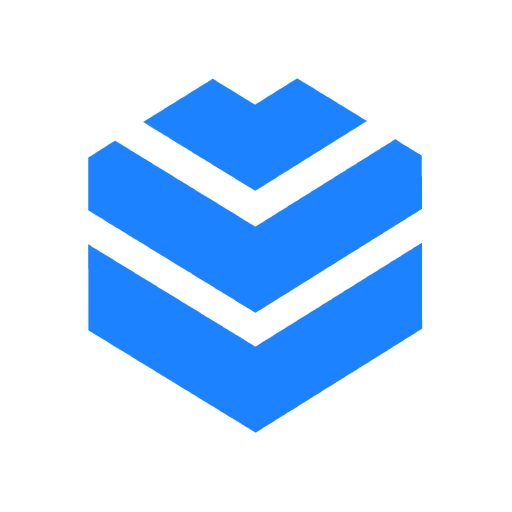
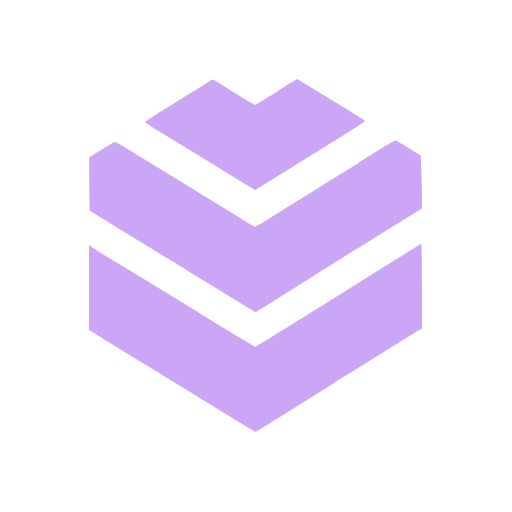
update colors

Changed region(s): [[0.1562, 0.4688, 0.8438, 0.8438], [0.1562, 0.25, 0.8438, 0.625], [0.2812, 0.1562, 0.7188, 0.375]]

diff --git a/src/app/globals.css b/src/app/globals.css
@@ -2,61 +2,108 @@
 @tailwind components;
 @tailwind utilities;
 
-@layer base {
-  :root {
-    --background: 0 0% 100%;
-    --foreground: 222.2 84% 4.9%;
-    --card: 0 0% 100%;
-    --card-foreground: 222.2 84% 4.9%;
-    --popover: 0 0% 100%;
-    --popover-foreground: 222.2 84% 4.9%;
-    --primary: 221.2 83.2% 53.3%;
-    --primary-foreground: 210 40% 98%;
-    --secondary: 210 40% 96.1%;
-    --secondary-foreground: 222.2 47.4% 11.2%;
-    --muted: 210 40% 96.1%;
-    --muted-foreground: 215.4 16.3% 46.9%;
-    --accent: 210 40% 96.1%;
-    --accent-foreground: 222.2 47.4% 11.2%;
-    --destructive: 0 84.2% 60.2%;
-    --destructive-foreground: 210 40% 98%;
-    --border: 214.3 31.8% 91.4%;
-    --input: 214.3 31.8% 91.4%;
-    --ring: 221.2 83.2% 53.3%;
-    --radius: 0.5rem;
-    --chart-1: 12 76% 61%;
-    --chart-2: 173 58% 39%;
-    --chart-3: 197 37% 24%;
-    --chart-4: 43 74% 66%;
-    --chart-5: 27 87% 67%;
-  }
+:root {
+  --background: 220 23.08% 94.9%;
+  --foreground: 233.79 16.02% 35.49%;
+  --card: 0 0% 100%;
+  --card-foreground: 233.79 16.02% 35.49%;
+  --popover: 222.86 15.91% 82.75%;
+  --popover-foreground: 233.79 16.02% 35.49%;
+  --primary: 266.04 85.05% 58.04%;
+  --primary-foreground: 0 0% 100%;
+  --secondary: 222.86 15.91% 82.75%;
+  --secondary-foreground: 233.79 16.02% 35.49%;
+  --muted: 220 20.69% 88.63%;
+  --muted-foreground: 232.8 10.37% 47.25%;
+  --accent: 197.07 96.57% 45.69%;
+  --accent-foreground: 0 0% 100%;
+  --destructive: 347.08 86.67% 44.12%;
+  --destructive-foreground: 0 0% 100%;
+  --border: 225 13.56% 76.86%;
+  --input: 222.86 15.91% 82.75%;
+  --ring: 266.04 85.05% 58.04%;
+  --chart-1: 266.04 85.05% 58.04%;
+  --chart-2: 197.07 96.57% 45.69%;
+  --chart-3: 109.23 57.64% 39.8%;
+  --chart-4: 21.98 99.18% 51.96%;
+  --chart-5: 10.8 58.82% 66.67%;
+  --sidebar: 220 21.95% 91.96%;
+  --sidebar-foreground: 233.79 16.02% 35.49%;
+  --sidebar-primary: 266.04 85.05% 58.04%;
+  --sidebar-primary-foreground: 0 0% 100%;
+  --sidebar-accent: 197.07 96.57% 45.69%;
+  --sidebar-accent-foreground: 0 0% 100%;
+  --sidebar-border: 225 13.56% 76.86%;
+  --sidebar-ring: 266.04 85.05% 58.04%;
+  --font-sans: Montserrat, sans-serif;
+  --font-serif: Georgia, serif;
+  --font-mono: Fira Code, monospace;
+  --radius: 0.35rem;
+  --shadow-2xs: 0px 4px 6px 0px hsl(240 30% 25% / 0.06);
+  --shadow-xs: 0px 4px 6px 0px hsl(240 30% 25% / 0.06);
+  --shadow-sm: 0px 4px 6px 0px hsl(240 30% 25% / 0.12),
+    0px 1px 2px -1px hsl(240 30% 25% / 0.12);
+  --shadow: 0px 4px 6px 0px hsl(240 30% 25% / 0.12),
+    0px 1px 2px -1px hsl(240 30% 25% / 0.12);
+  --shadow-md: 0px 4px 6px 0px hsl(240 30% 25% / 0.12),
+    0px 2px 4px -1px hsl(240 30% 25% / 0.12);
+  --shadow-lg: 0px 4px 6px 0px hsl(240 30% 25% / 0.12),
+    0px 4px 6px -1px hsl(240 30% 25% / 0.12);
+  --shadow-xl: 0px 4px 6px 0px hsl(240 30% 25% / 0.12),
+    0px 8px 10px -1px hsl(240 30% 25% / 0.12);
+  --shadow-2xl: 0px 4px 6px 0px hsl(240 30% 25% / 0.3);
+}
 
-  .dark {
-    --background: 222.2 84% 4.9%;
-    --foreground: 210 40% 98%;
-    --card: 222.2 84% 4.9%;
-    --card-foreground: 210 40% 98%;
-    --popover: 222.2 84% 4.9%;
-    --popover-foreground: 210 40% 98%;
-    --primary: 217.2 91.2% 59.8%;
-    --primary-foreground: 222.2 47.4% 11.2%;
-    --secondary: 217.2 32.6% 17.5%;
-    --secondary-foreground: 210 40% 98%;
-    --muted: 217.2 32.6% 17.5%;
-    --muted-foreground: 215 20.2% 65.1%;
-    --accent: 217.2 32.6% 17.5%;
-    --accent-foreground: 210 40% 98%;
-    --destructive: 0 62.8% 30.6%;
-    --destructive-foreground: 210 40% 98%;
-    --border: 217.2 32.6% 17.5%;
-    --input: 217.2 32.6% 17.5%;
-    --ring: 224.3 76.3% 48%;
-    --chart-1: 220 70% 50%;
-    --chart-2: 160 60% 45%;
-    --chart-3: 30 80% 55%;
-    --chart-4: 280 65% 60%;
-    --chart-5: 340 75% 55%;
-  }
+.dark {
+  --background: 240 21.31% 11.96%;
+  --foreground: 226.15 63.93% 88.04%;
+  --card: 240 21.05% 14.9%;
+  --card-foreground: 226.15 63.93% 88.04%;
+  --popover: 234.29 13.21% 31.18%;
+  --popover-foreground: 226.15 63.93% 88.04%;
+  --primary: 267.41 83.51% 80.98%;
+  --primary-foreground: 240 21.05% 14.9%;
+  --secondary: 232.5 12% 39.22%;
+  --secondary-foreground: 226.15 63.93% 88.04%;
+  --muted: 230.53 18.81% 19.8%;
+  --muted-foreground: 227.65 23.61% 71.76%;
+  --accent: 189.18 71.01% 72.94%;
+  --accent-foreground: 240 21.05% 14.9%;
+  --destructive: 343.27 81.25% 74.9%;
+  --destructive-foreground: 240 21.05% 14.9%;
+  --border: 236.84 16.24% 22.94%;
+  --input: 236.84 16.24% 22.94%;
+  --ring: 267.41 83.51% 80.98%;
+  --chart-1: 267.41 83.51% 80.98%;
+  --chart-2: 189.18 71.01% 72.94%;
+  --chart-3: 115.45 54.1% 76.08%;
+  --chart-4: 22.96 92% 75.49%;
+  --chart-5: 9.6 55.56% 91.18%;
+  --sidebar: 240 22.73% 8.63%;
+  --sidebar-foreground: 226.15 63.93% 88.04%;
+  --sidebar-primary: 267.41 83.51% 80.98%;
+  --sidebar-primary-foreground: 240 21.05% 14.9%;
+  --sidebar-accent: 189.18 71.01% 72.94%;
+  --sidebar-accent-foreground: 240 21.05% 14.9%;
+  --sidebar-border: 234.29 13.21% 31.18%;
+  --sidebar-ring: 267.41 83.51% 80.98%;
+  --font-sans: Montserrat, sans-serif;
+  --font-serif: Georgia, serif;
+  --font-mono: Fira Code, monospace;
+  --radius: 0.35rem;
+  --shadow-2xs: 0px 4px 6px 0px hsl(240 30% 25% / 0.06);
+  --shadow-xs: 0px 4px 6px 0px hsl(240 30% 25% / 0.06);
+  --shadow-sm: 0px 4px 6px 0px hsl(240 30% 25% / 0.12),
+    0px 1px 2px -1px hsl(240 30% 25% / 0.12);
+  --shadow: 0px 4px 6px 0px hsl(240 30% 25% / 0.12),
+    0px 1px 2px -1px hsl(240 30% 25% / 0.12);
+  --shadow-md: 0px 4px 6px 0px hsl(240 30% 25% / 0.12),
+    0px 2px 4px -1px hsl(240 30% 25% / 0.12);
+  --shadow-lg: 0px 4px 6px 0px hsl(240 30% 25% / 0.12),
+    0px 4px 6px -1px hsl(240 30% 25% / 0.12);
+  --shadow-xl: 0px 4px 6px 0px hsl(240 30% 25% / 0.12),
+    0px 8px 10px -1px hsl(240 30% 25% / 0.12);
+  --shadow-2xl: 0px 4px 6px 0px hsl(240 30% 25% / 0.3);
 }
 
 /* @layer base {

diff --git a/src/components/pages/tools/Password.jsx b/src/components/pages/tools/Password.jsx
@@ -202,7 +202,7 @@ export default function PasswordGenerator() {
           </div>
         </div>
 
-        <div className="p-4 bg-gray-50 dark:bg-gray-900 rounded-md">
+        <div className="p-4 bg-gray-50 dark:bg-secondary rounded-md">
           <div className="flex justify-between items-center mb-2">
             <Label className="flex items-center">
               <Shield className="h-4 w-4 mr-2" />
